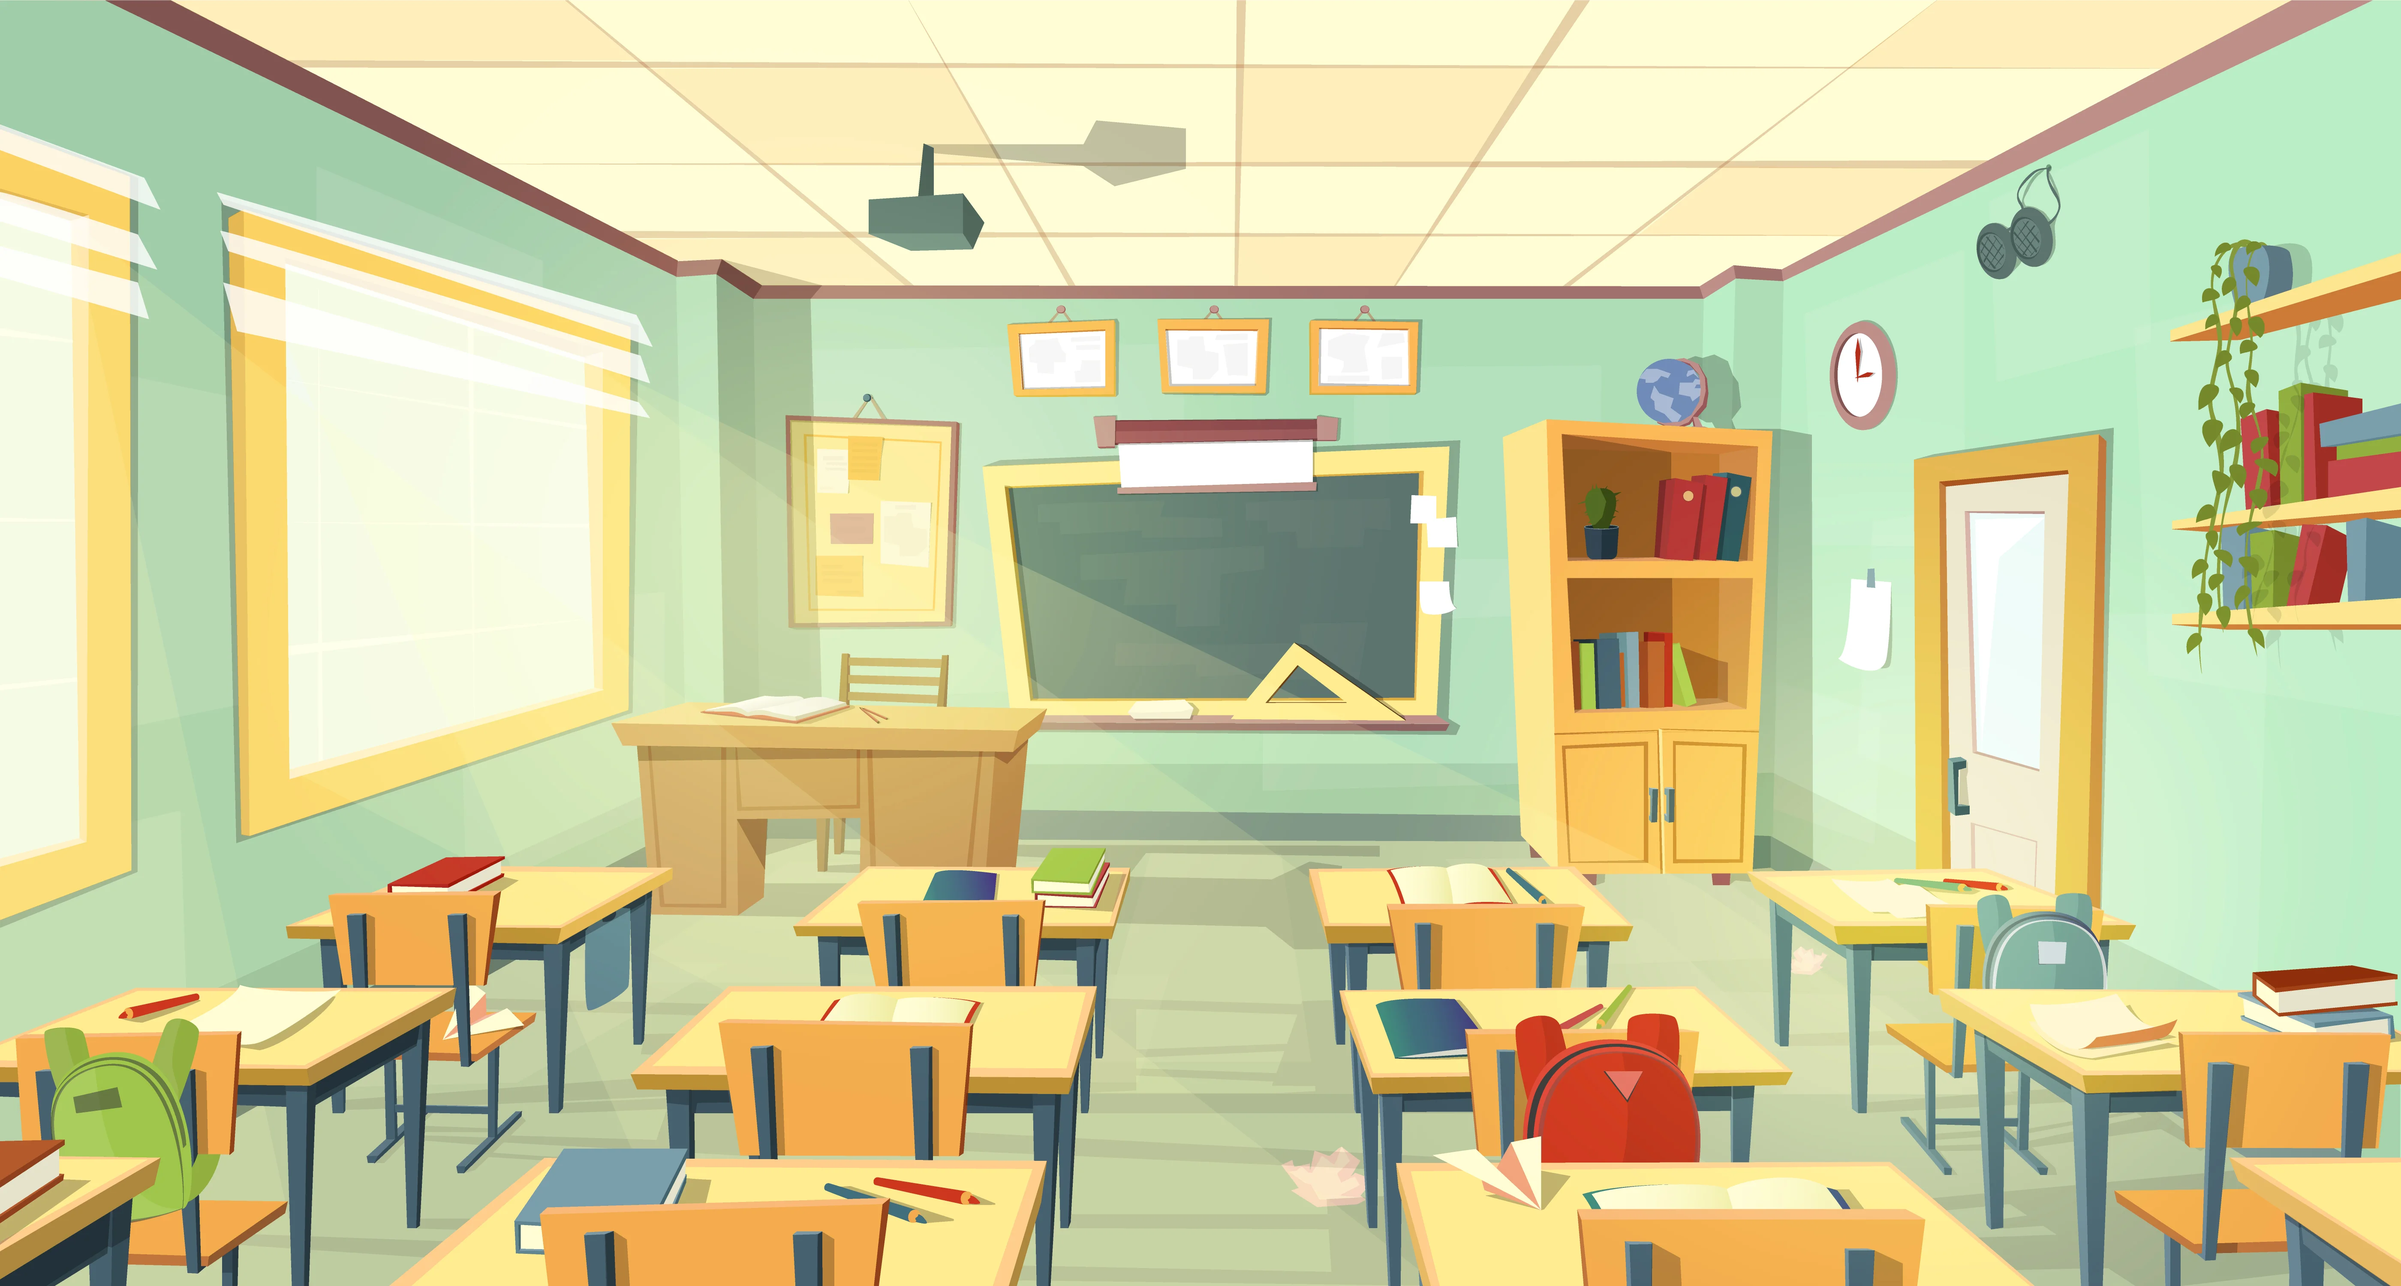
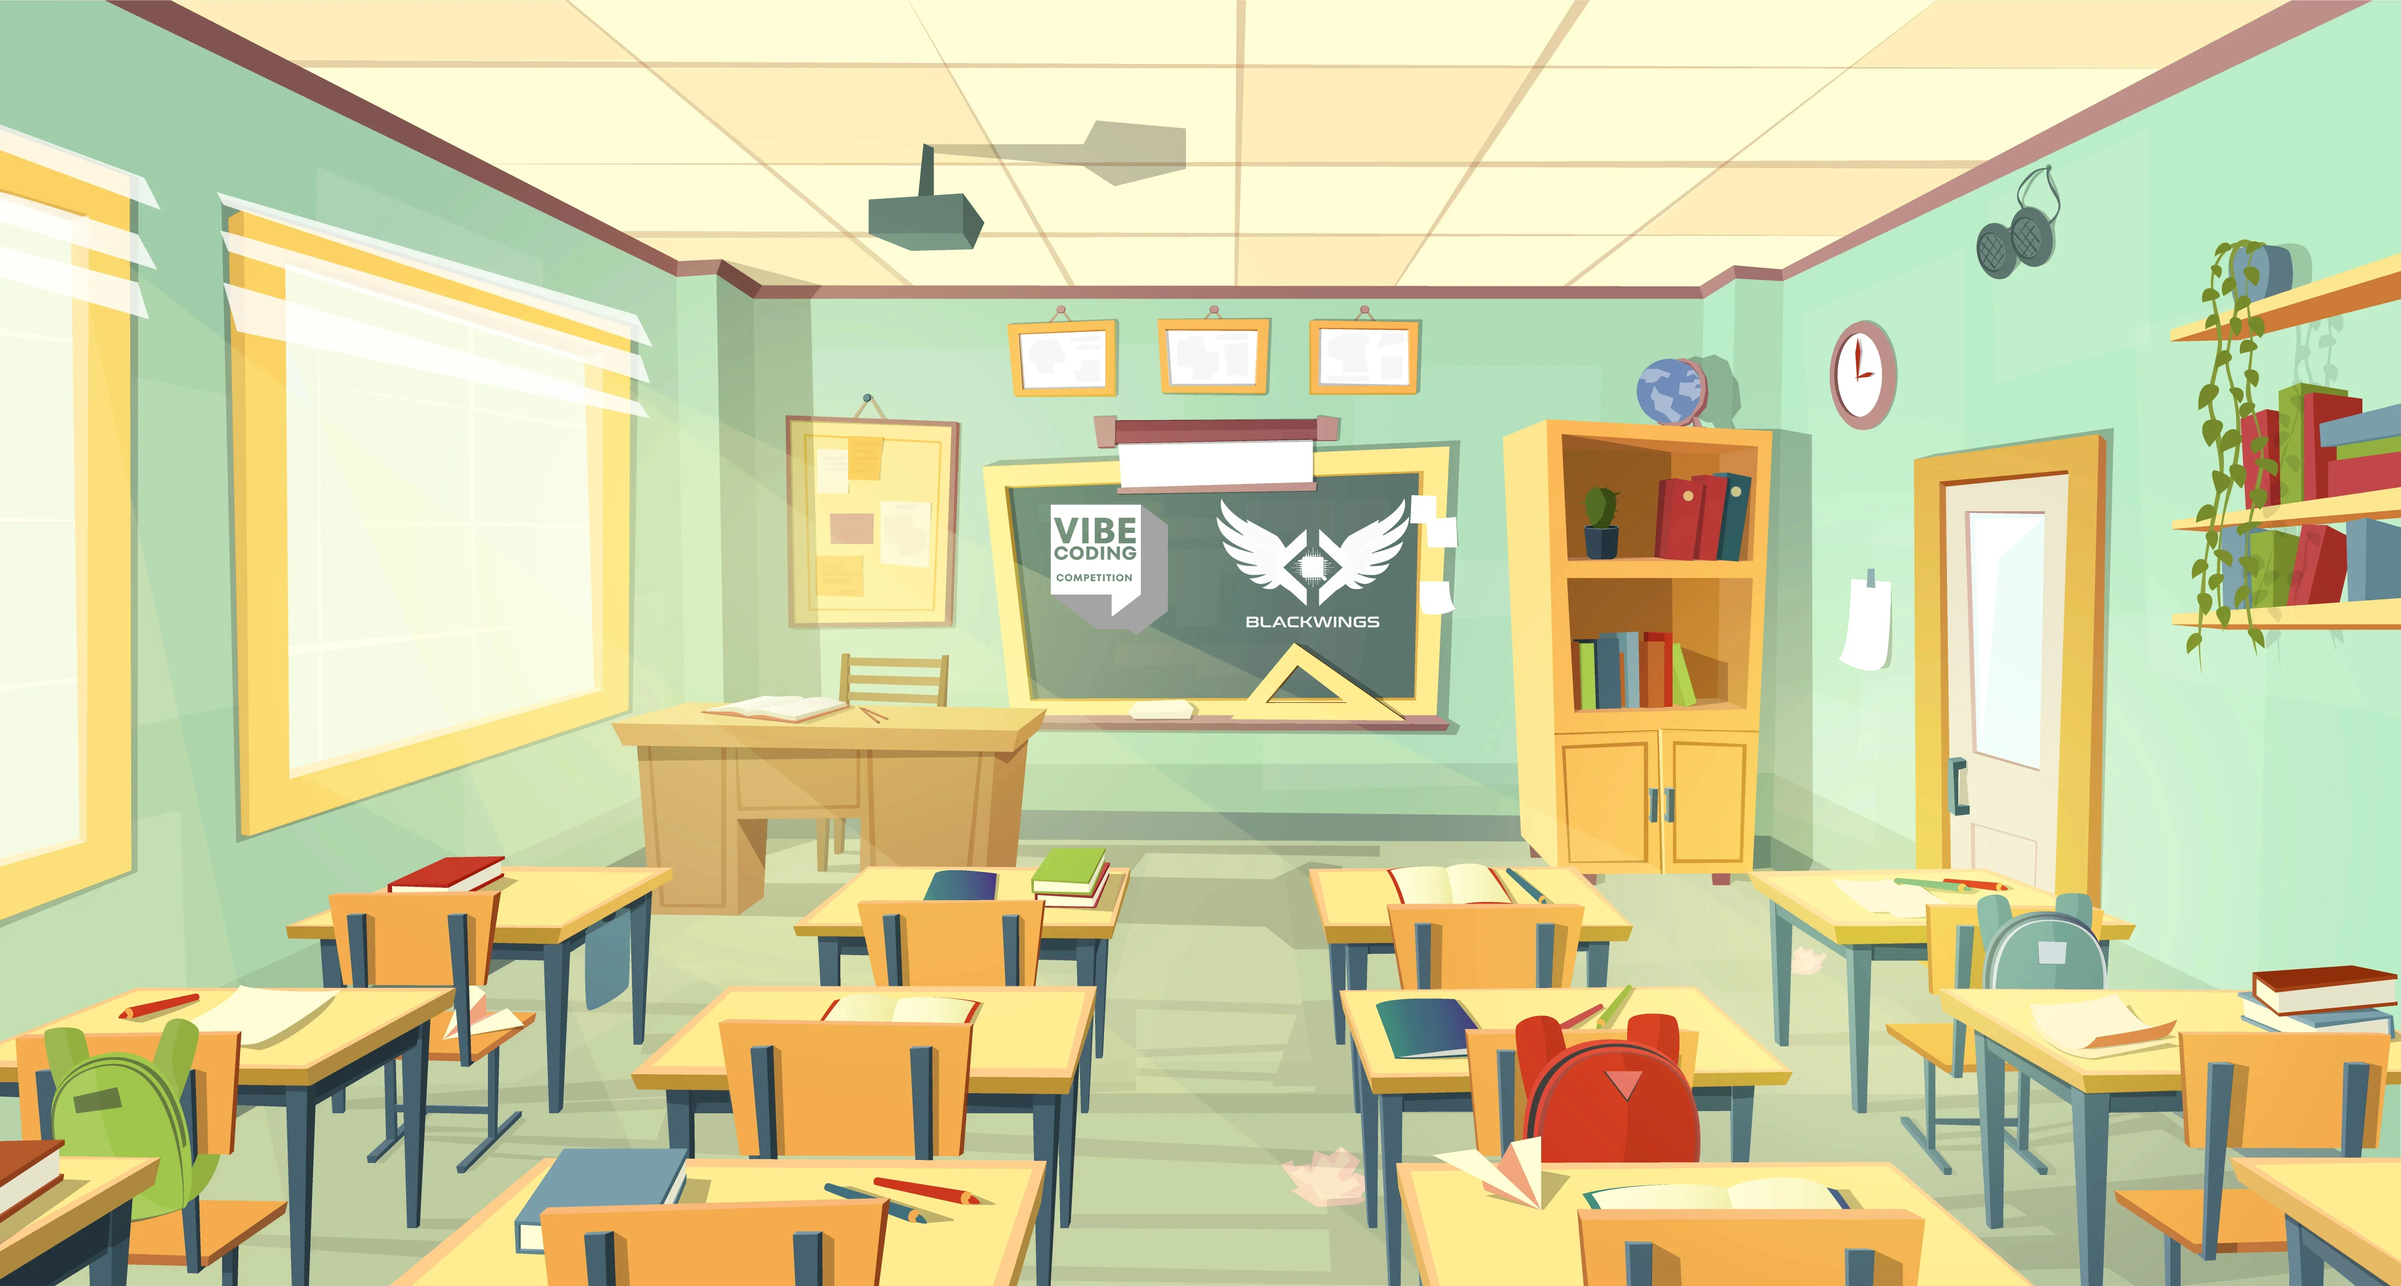
Update bg

Changed region(s): [[0.4375, 0.372, 0.5938, 0.496]]

diff --git a/src/components/game/states/Podium.tsx b/src/components/game/states/Podium.tsx
@@ -2,13 +2,15 @@
 
 import { ManagerStatusDataMap } from "@/common/types/game/status"
 import useScreenSize from "@cahoot/web/hooks/useScreenSize"
+import { getAvatarForUsername, getAvatarUrl } from "@cahoot/web/utils/avatar"
 import {
-    SFX_PODIUM_FIRST,
-    SFX_PODIUM_SECOND,
-    SFX_PODIUM_THREE,
-    SFX_SNEAR_ROOL,
+  SFX_PODIUM_FIRST,
+  SFX_PODIUM_SECOND,
+  SFX_PODIUM_THREE,
+  SFX_SNEAR_ROOL,
 } from "@cahoot/web/utils/constants"
 import clsx from "clsx"
+import Image from "next/image"
 import { useEffect, useState } from "react"
 import ReactConfetti from "react-confetti"
 import useSound from "use-sound"
@@ -117,12 +119,19 @@ const Podium = ({ data: { subject, top } }: Props) => {
             >
               <p
                 className={clsx(
-                  "overflow-visible text-center text-2xl font-bold whitespace-nowrap text-white drop-shadow-lg md:text-4xl",
+                  "flex items-center gap-2 overflow-visible text-center text-2xl font-bold whitespace-nowrap text-white drop-shadow-lg md:text-4xl",
                   {
                     "anim-balanced": apparition >= 4,
                   },
                 )}
               >
+                <Image
+                  src={getAvatarUrl(getAvatarForUsername(top[1].username))}
+                  alt="avatar"
+                  width={48}
+                  height={48}
+                  className="rounded-full border-2 border-white shadow-lg"
+                />
                 {top[1].username}
               </p>
               <div className="bg-primary flex h-full w-full flex-col items-center gap-4 rounded-t-md pt-6 text-center shadow-2xl">
@@ -149,10 +158,17 @@ const Podium = ({ data: { subject, top } }: Props) => {
           >
             <p
               className={clsx(
-                "overflow-visible text-center text-2xl font-bold whitespace-nowrap text-white opacity-0 drop-shadow-lg md:text-4xl",
+                "flex items-center gap-2 overflow-visible text-center text-2xl font-bold whitespace-nowrap text-white opacity-0 drop-shadow-lg md:text-4xl",
                 { "anim-balanced opacity-100": apparition >= 4 },
               )}
             >
+              <Image
+                src={getAvatarUrl(getAvatarForUsername(top[0].username))}
+                alt="avatar"
+                width={56}
+                height={56}
+                className="rounded-full border-2 border-amber-400 shadow-lg"
+              />
               {top[0].username}
             </p>
             <div className="bg-primary flex h-full w-full flex-col items-center gap-4 rounded-t-md pt-6 text-center shadow-2xl">
@@ -176,12 +192,19 @@ const Podium = ({ data: { subject, top } }: Props) => {
             >
               <p
                 className={clsx(
-                  "overflow-visible text-center text-2xl font-bold whitespace-nowrap text-white drop-shadow-lg md:text-4xl",
+                  "flex items-center gap-2 overflow-visible text-center text-2xl font-bold whitespace-nowrap text-white drop-shadow-lg md:text-4xl",
                   {
                     "anim-balanced": apparition >= 4,
                   },
                 )}
               >
+                <Image
+                  src={getAvatarUrl(getAvatarForUsername(top[2].username))}
+                  alt="avatar"
+                  width={40}
+                  height={40}
+                  className="rounded-full border-2 border-amber-700 shadow-lg"
+                />
                 {top[2].username}
               </p>
               <div className="bg-primary flex h-full w-full flex-col items-center gap-4 rounded-t-md pt-6 text-center shadow-2xl">

diff --git a/src/components/game/GameWrapper.tsx b/src/components/game/GameWrapper.tsx
@@ -2,11 +2,14 @@
 
 import { Status } from "@/common/types/game/status"
 import background from "@cahoot/web/assets/background.webp"
+import logoBlackwings from "@cahoot/web/assets/blackwings_2.png"
+import logoVibecoding from "@cahoot/web/assets/vibecoding_3.png"
 import Button from "@cahoot/web/components/Button"
 import Loader from "@cahoot/web/components/Loader"
 import { useEvent, useSocket } from "@cahoot/web/contexts/socketProvider"
 import { usePlayerStore } from "@cahoot/web/stores/player"
 import { useQuestionStore } from "@cahoot/web/stores/question"
+import { getAvatarUrl } from "@cahoot/web/utils/avatar"
 import { MANAGER_SKIP_BTN } from "@cahoot/web/utils/constants"
 import clsx from "clsx"
 import Image from "next/image"
@@ -51,6 +54,24 @@ const GameWrapper = ({ children, statusName, onNext, manager }: Props) => {
         />
       </div>
 
+      {/* Sponsor Logos */}
+      <div className="pointer-events-none absolute top-2 right-0 left-0 z-50 flex items-center justify-center gap-2 md:gap-4">
+        <Image
+          src={logoVibecoding}
+          alt="Vibecoding"
+          height={80}
+          width={200}
+          className="h-[50px] w-auto object-contain md:h-[80px]"
+        />
+        <Image
+          src={logoBlackwings}
+          alt="Blackwings"
+          height={80}
+          width={200}
+          className="h-[50px] w-auto object-contain md:h-[80px]"
+        />
+      </div>
+
       {!isConnected && !statusName ? (
         <div className="flex h-full w-full flex-1 flex-col items-center justify-center">
           <Loader />
@@ -81,7 +102,18 @@ const GameWrapper = ({ children, statusName, onNext, manager }: Props) => {
 
           {!manager && (
             <div className="z-50 flex items-center justify-between bg-white px-4 py-2 text-lg font-bold text-white">
-              <p className="text-gray-800">{player?.username}</p>
+              <div className="flex items-center gap-2">
+                {player?.avatar && (
+                  <Image
+                    src={getAvatarUrl(player.avatar)}
+                    alt="avatar"
+                    width={32}
+                    height={32}
+                    className="rounded-full"
+                  />
+                )}
+                <p className="text-gray-800">{player?.username}</p>
+              </div>
               <div className="rounded-sm bg-gray-800 px-3 py-1 text-lg">
                 {player?.points}
               </div>

diff --git a/src/app/(auth)/layout.tsx b/src/app/(auth)/layout.tsx
@@ -1,6 +1,8 @@
 "use client"
 
+import logoBlackwings from "@cahoot/web/assets/blackwings_2.png"
 import logo from "@cahoot/web/assets/logo.svg"
+import logoVibecoding from "@cahoot/web/assets/vibecoding_3.png"
 import Loader from "@cahoot/web/components/Loader"
 import { useSocket } from "@cahoot/web/contexts/socketProvider"
 import Image from "next/image"
@@ -14,9 +16,29 @@ const AuthLayout = ({ children }: PropsWithChildren) => {
     }
   }, [connect, isConnected])
 
+  const SponsorLogos = () => (
+    <div className="pointer-events-none absolute top-2 right-0 left-0 z-50 flex items-center justify-center gap-2 md:gap-4">
+      <Image
+        src={logoVibecoding}
+        alt="Vibecoding"
+        height={80}
+        width={200}
+        className="h-[50px] w-auto object-contain md:h-[80px]"
+      />
+      <Image
+        src={logoBlackwings}
+        alt="Blackwings"
+        height={80}
+        width={200}
+        className="h-[50px] w-auto object-contain md:h-[80px]"
+      />
+    </div>
+  )
+
   if (!isConnected) {
     return (
       <section className="relative flex min-h-screen flex-col items-center justify-center">
+        <SponsorLogos />
         <div className="absolute h-full w-full overflow-hidden">
           <div className="bg-primary/15 absolute -top-[15vmin] -left-[15vmin] min-h-[75vmin] min-w-[75vmin] rounded-full"></div>
           <div className="bg-primary/15 absolute -right-[15vmin] -bottom-[15vmin] min-h-[75vmin] min-w-[75vmin] rotate-45"></div>
@@ -33,6 +55,7 @@ const AuthLayout = ({ children }: PropsWithChildren) => {
 
   return (
     <section className="relative flex min-h-screen flex-col items-center justify-center">
+      <SponsorLogos />
       <div className="absolute h-full w-full overflow-hidden">
         <div className="bg-primary/15 absolute -top-[15vmin] -left-[15vmin] min-h-[75vmin] min-w-[75vmin] rounded-full"></div>
         <div className="bg-primary/15 absolute -right-[15vmin] -bottom-[15vmin] min-h-[75vmin] min-w-[75vmin] rotate-45"></div>

diff --git a/src/components/game/states/Leaderboard.tsx b/src/components/game/states/Leaderboard.tsx
@@ -1,5 +1,7 @@
 import { ManagerStatusDataMap } from "@/common/types/game/status"
+import { getAvatarForUsername, getAvatarUrl } from "@cahoot/web/utils/avatar"
 import { AnimatePresence, motion, useSpring, useTransform } from "motion/react"
+import Image from "next/image"
 import { useEffect, useState } from "react"
 
 type Props = {
@@ -45,7 +47,7 @@ const Leaderboard = ({ data: { oldLeaderboard, leaderboard } }: Props) => {
   return (
     <section className="relative mx-auto flex w-full max-w-4xl flex-1 flex-col items-center justify-center px-2">
       <h2 className="mb-6 text-5xl font-bold text-white drop-shadow-md">
-        Leaderboard
+        Bảng điểm
       </h2>
       <div className="flex w-full flex-col gap-2">
         <AnimatePresence mode="popLayout">
@@ -70,9 +72,18 @@ const Leaderboard = ({ data: { oldLeaderboard, leaderboard } }: Props) => {
                   damping: 25,
                 },
               }}
-              className="bg-primary flex w-full justify-between rounded-md p-3 text-2xl font-bold text-white"
+              className="bg-primary flex w-full items-center justify-between rounded-md p-3 text-2xl font-bold text-white"
             >
-              <span className="drop-shadow-md">{username}</span>
+              <div className="flex items-center gap-3">
+                <Image
+                  src={getAvatarUrl(getAvatarForUsername(username))}
+                  alt="avatar"
+                  width={40}
+                  height={40}
+                  className="rounded-full"
+                />
+                <span className="drop-shadow-md">{username}</span>
+              </div>
               {isAnimating ? (
                 <AnimatedPoints
                   from={oldLeaderboard.find((u) => u.id === id)?.points || 0}

diff --git a/src/components/game/states/Room.tsx b/src/components/game/states/Room.tsx
@@ -4,6 +4,8 @@ import { Player } from "@/common/types/game"
 import { ManagerStatusDataMap } from "@/common/types/game/status"
 import { useEvent, useSocket } from "@cahoot/web/contexts/socketProvider"
 import { useManagerStore } from "@cahoot/web/stores/manager"
+import { getAvatarForUsername, getAvatarUrl } from "@cahoot/web/utils/avatar"
+import Image from "next/image"
 import { useState } from "react"
 
 type Props = {
@@ -56,7 +58,7 @@ const Room = ({ data: { text, inviteCode } }: Props) => {
 
       <div className="mb-6 flex items-center justify-center rounded-full bg-black/40 px-6 py-3">
         <span className="text-2xl font-bold text-white drop-shadow-md">
-          Players Joined: {totalPlayers}
+          Quân số: {totalPlayers}
         </span>
       </div>
 
@@ -64,9 +66,16 @@ const Room = ({ data: { text, inviteCode } }: Props) => {
         {playerList.map((player) => (
           <div
             key={player.id}
-            className="shadow-inset bg-primary rounded-md px-4 py-3 font-bold text-white"
+            className="shadow-inset bg-primary flex items-center gap-2 rounded-md px-4 py-3 font-bold text-white"
             onClick={handleKick(player.id)}
           >
+            <Image
+              src={getAvatarUrl(getAvatarForUsername(player.username))}
+              alt="avatar"
+              width={32}
+              height={32}
+              className="rounded-full"
+            />
             <span className="cursor-pointer text-xl drop-shadow-md hover:line-through">
               {player.username}
             </span>

diff --git a/src/utils/constants.ts b/src/utils/constants.ts
@@ -27,7 +27,7 @@ export const ANSWERS_ICONS = [Triangle, Rhombus, Circle, Square]
 export const GAME_STATES = {
   status: {
     name: STATUS.WAIT,
-    data: { text: "Waiting for the players" },
+    data: { text: "Đang đợi anh em vô chơi" },
   },
   question: {
     current: 1,
@@ -63,14 +63,14 @@ export const SFX_PODIUM_FIRST = "/sounds/first.mp3"
 export const SFX_SNEAR_ROOL = "/sounds/snearRoll.mp3"
 
 export const MANAGER_SKIP_BTN = {
-  [STATUS.SHOW_ROOM]: "Start Game",
+  [STATUS.SHOW_ROOM]: "Chơiii!!",
   [STATUS.SHOW_START]: null,
   [STATUS.SHOW_PREPARED]: null,
   [STATUS.SHOW_QUESTION]: null,
-  [STATUS.SELECT_ANSWER]: "Skip",
+  [STATUS.SELECT_ANSWER]: "Dừng",
   [STATUS.SHOW_RESULT]: null,
-  [STATUS.SHOW_RESPONSES]: "Next",
-  [STATUS.SHOW_LEADERBOARD]: "Next",
+  [STATUS.SHOW_RESPONSES]: "Tiếp",
+  [STATUS.SHOW_LEADERBOARD]: "Tiếp",
   [STATUS.FINISHED]: null,
   [STATUS.WAIT]: null,
 }

diff --git a/src/utils/avatar.ts b/src/utils/avatar.ts
@@ -1,0 +1,26 @@
+// Total number of avatars available in public/avatars folder
+export const TOTAL_AVATARS = 42
+
+// Generate random avatar number (1-42)
+export const getRandomAvatar = (): string => {
+  const randomNum = Math.floor(Math.random() * TOTAL_AVATARS) + 1
+  return `${randomNum}.png`
+}
+
+// Get avatar URL from avatar filename
+export const getAvatarUrl = (avatar: string): string => {
+  return `/avatars/${avatar}`
+}
+
+// Generate avatar for username (deterministic based on username)
+// This ensures same username always gets same avatar
+export const getAvatarForUsername = (username: string): string => {
+  let hash = 0
+  for (let i = 0; i < username.length; i++) {
+    const char = username.charCodeAt(i)
+    hash = (hash << 5) - hash + char
+    hash = hash & hash // Convert to 32bit integer
+  }
+  const avatarNum = (Math.abs(hash) % TOTAL_AVATARS) + 1
+  return `${avatarNum}.png`
+}

diff --git a/src/stores/player.tsx b/src/stores/player.tsx
@@ -1,10 +1,12 @@
 import { StatusDataMap } from "@/common/types/game/status"
+import { getRandomAvatar } from "@cahoot/web/utils/avatar"
 import { createStatus, Status } from "@cahoot/web/utils/createStatus"
 import { create } from "zustand"
 
 type PlayerState = {
   username?: string
   points?: number
+  avatar?: string
 }
 
 type PlayerStore<T> = {
@@ -38,7 +40,7 @@ export const usePlayerStore = create<PlayerStore<StatusDataMap>>((set) => ({
   setPlayer: (player: PlayerState) => set({ player }),
   login: (username) =>
     set((state) => ({
-      player: { ...state.player, username },
+      player: { ...state.player, username, avatar: getRandomAvatar() },
     })),
 
   join: (gameId) => {

diff --git a/src/components/game/states/Prepared.tsx b/src/components/game/states/Prepared.tsx
@@ -10,7 +10,7 @@ type Props = {
 const Prepared = ({ data: { totalAnswers, questionNumber } }: Props) => (
   <section className="anim-show relative mx-auto flex w-full max-w-7xl flex-1 flex-col items-center justify-center">
     <h2 className="anim-show mb-20 text-center text-3xl font-bold text-white drop-shadow-lg md:text-4xl lg:text-5xl">
-      Question #{questionNumber}
+      Câu số #{questionNumber}
     </h2>
     <div className="anim-quizz grid aspect-square w-60 grid-cols-2 gap-4 rounded-2xl bg-gray-700 p-5 md:w-60">
       {[...Array(totalAnswers)].map((_, key) => (

diff --git a/src/app/(auth)/manager/page.tsx b/src/app/(auth)/manager/page.tsx
@@ -24,7 +24,7 @@ const Manager = () => {
 
   useEvent("manager:gameCreated", ({ gameId, inviteCode }) => {
     setGameId(gameId)
-    setStatus(STATUS.SHOW_ROOM, { text: "Waiting for the players", inviteCode })
+    setStatus(STATUS.SHOW_ROOM, { text: "Đang đợi anh em vô chơi", inviteCode })
     router.push(`/game/manager/${gameId}`)
   })
 

diff --git a/src/components/game/join/Username.tsx b/src/components/game/join/Username.tsx
@@ -31,7 +31,7 @@ const Username = () => {
   }
 
   useEvent("game:successJoin", (gameId) => {
-    setStatus(STATUS.WAIT, { text: "Waiting for the players" })
+    setStatus(STATUS.WAIT, { text: "Đang đợi anh em vô chơi" })
     login(username)
 
     router.replace(`/game/${gameId}`)
